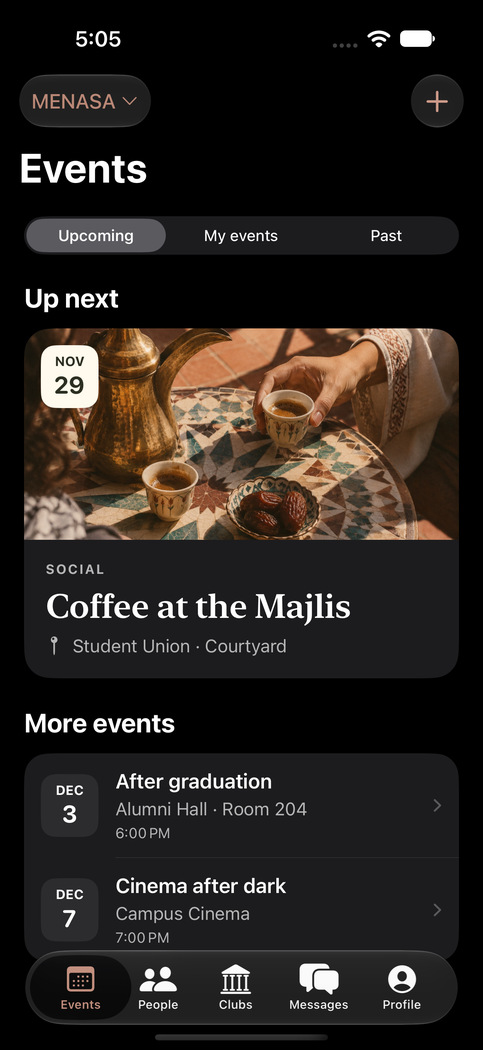
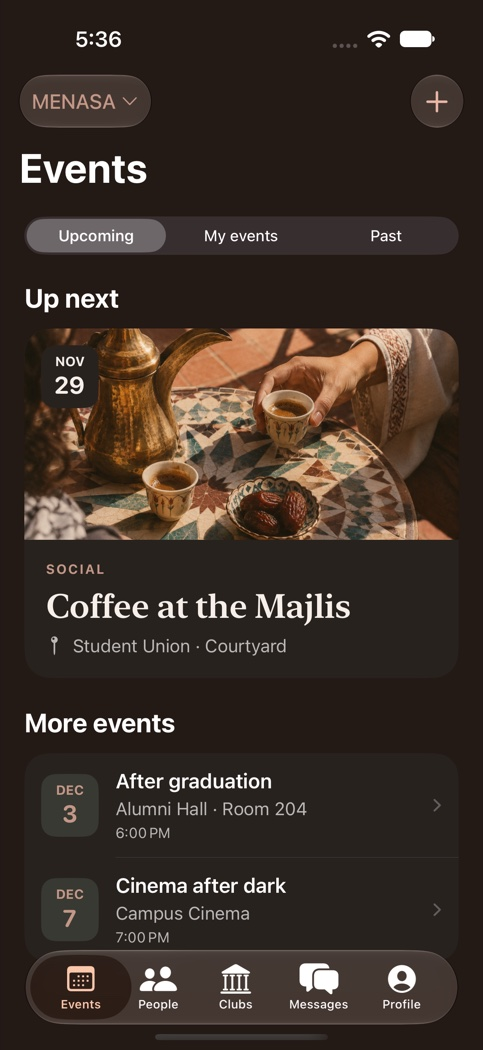
Document the refreshed club pages and iPhone Wallet test flow

diff --git a/README.md b/README.md
@@ -2,19 +2,28 @@
 
 A native iPhone and iPad community app for USC students and alumni. MENASA is the pilot club. One verified USC account can join several clubs and organize any clubs it creates.
 
-<img src="media/events-iphone.jpg" alt="The Events tab on iPhone" width="235"> <img src="media/events-ipad.jpg" alt="Events in an adaptive split view on iPad" width="395">
+<img src="media/campus-clubs-iphone.jpg" alt="Campus club directory in the Club Connect palette" width="235"> <img src="media/club-page-iphone.jpg" alt="MENASA’s club page with upcoming events in its own colors" width="235">
 
 ## Using the pilot
 
 1. Enter an address ending in **@usc.edu**. Open the verification link on the device that started sign-in, or enter the email’s six-digit code in the app. Both expire after ten minutes.
 2. Choose a first club or create one, then enter a name, graduation term, and year. Current students also choose freshman, sophomore, junior, senior, or graduate student. A spring graduate becomes an alum on June 1 and a fall graduate on January 1 of the following year, in Los Angeles time.
-3. Use **Clubs** to find, join, or create clubs. The club menu in Events, People, and Messages switches the active community. Editing a personal profile updates it across memberships.
-4. Organizers can change their club’s name, description, logo, and two colors. **View as a member** hides management tools for that club. **Step down as organizer** gives up the role. A sole organizer chooses a successor before stepping down. MENASA’s initial organizer can redeem the private invitation in Profile.
+3. Use **Clubs** to find, join, or create clubs. Open a club to see its next three events. Tap a date to open the event, or **See all upcoming events** for a longer calendar. The club menu in Events, People, and Messages switches the active community.
+4. The campus directory, account screens, and personal profile use Club Connect’s ivory, white, and brown palette. Each club’s page, event details, member directory, and conversations use its own colors. Organizers can change the logo and both colors in **Edit club**. **View as a member** hides management tools. **Step down as organizer** gives up the role. A sole organizer chooses a successor before stepping down. MENASA’s initial organizer can redeem the private invitation in Profile.
 5. Open another member’s profile in People and tap **Message**, or start a conversation in **Messages**. Conversations belong to a club and only the participants can read them.
 6. RSVP to an event and open **View ticket**. On a compatible iPhone, **Add to Apple Wallet** installs a signed pass with the same code used at check-in. The Calendar editor, share sheet, and manual or camera-assisted check-in use native iOS controls.
 7. Verified members can open the fictional sample community from Clubs. Debug builds also offer a local preview from the welcome screen. Network features that issue Wallet passes require a verified account.
 
 <img src="media/profile-iphone.jpg" alt="A centered member profile with class standing and graduation term" width="235"> <img src="media/sample-wallet-pass.jpg" alt="A signed sample event ticket installed in Apple Wallet" width="235">
+
+### Test Apple Wallet on iPhone
+
+1. Sign in with a verified USC email and complete your profile. Open **Clubs → Explore the sample community** and choose **MENASA**.
+2. Open an upcoming event, such as **Coffee at the Majlis**, and tap **RSVP**. If you already have a reservation, tap **View ticket**.
+3. Tap **Add to Apple Wallet**, then **Add** in Apple's sheet. Open Wallet and look for the sample pass. Adding a pass requires a network connection and a compatible iPhone.
+4. To try check-in on that same phone, copy the code from the sample ticket. Open the event’s **Manage event → Check in members**, paste the code, and tap **Check in member**. The ticket will show **Checked in**. For a live event, an organizer can scan the attendee’s Wallet QR from a second device.
+
+<img src="media/events-iphone.jpg" alt="The Events tab on iPhone" width="235"> <img src="media/events-ipad.jpg" alt="Events in an adaptive split view on iPad" width="395">
 
 ## Running and testing
 
